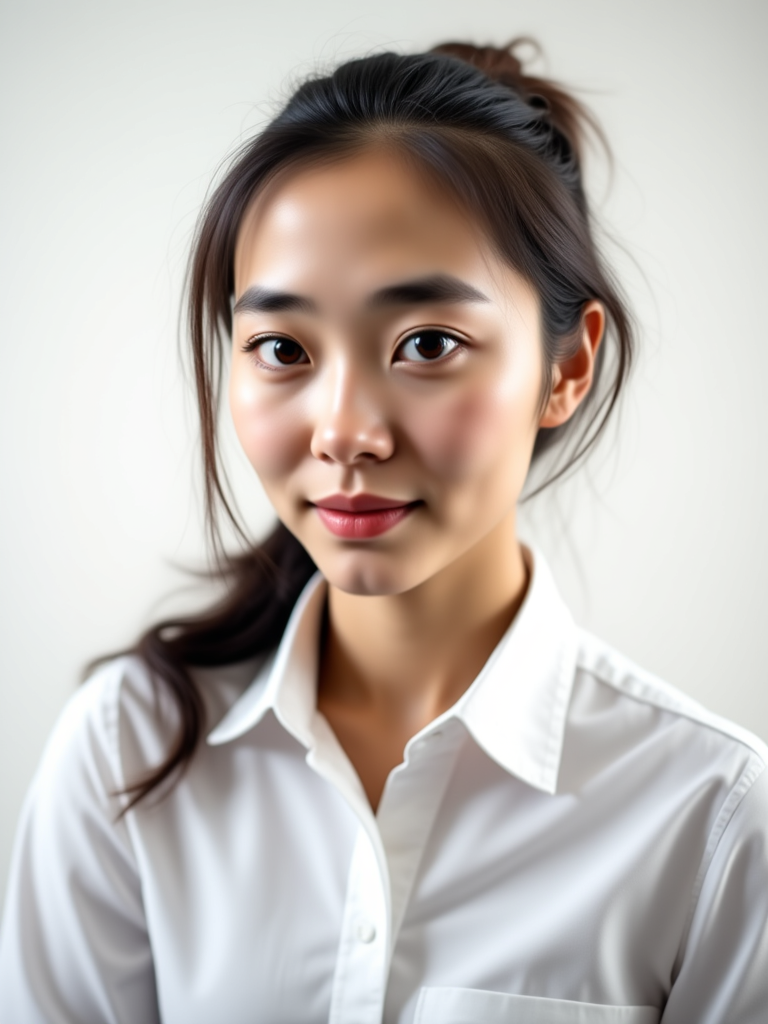
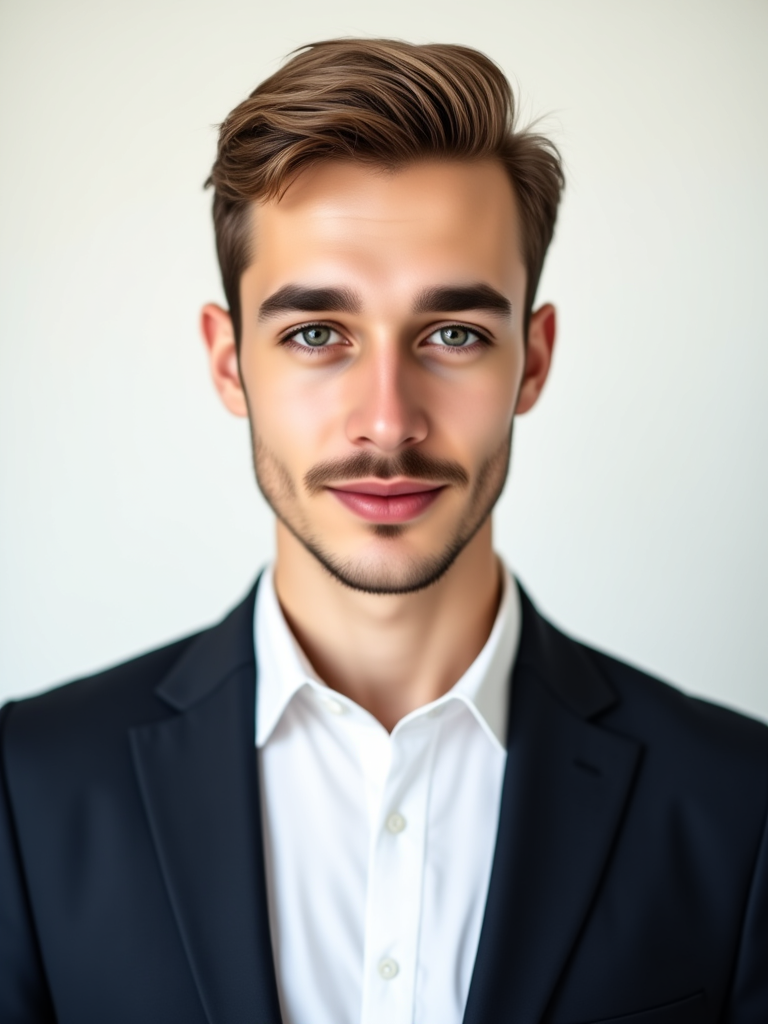
fix: update passport prompt and image for neat hair, suit jacket, and caucasian model

diff --git a/app/api/generate/route.ts b/app/api/generate/route.ts
@@ -22,8 +22,8 @@ const VARIANT_PROMPTS: Record<string, { v1: string; v2: string }> = {
     v2: "close-up aesthetic creator headshot, shoulders and head framing, neat light knit sweater, bright natural window daylight space, clear glowing skin, friendly radiant smile, 8k resolution",
   },
   passport_visa: {
-    v1: "official US passport photo standard, tight head-and-shoulders ID framing, face taking up 60% of total height, neutral calm expression, facing forward looking directly at camera, crisp white shirt, solid off-white studio background, perfectly even passport lighting, sharp 8k ID portrait",
-    v2: "official biometric visa ID photo, tight head-and-shoulders ID framing, face taking up 60% of total height, front facing neutral expression, white studio background, clear face lighting, crisp white collared shirt, high resolution studio photograph",
+    v1: "official US passport photo standard, tight head-and-shoulders ID framing, face taking up 60% of total height, neutral calm expression, facing forward looking directly at camera, dark suit jacket with crisp white shirt, perfectly groomed neat hair, professional salon hair styling, solid off-white studio background, perfectly even passport lighting, sharp 8k ID portrait",
+    v2: "official biometric visa ID photo, tight head-and-shoulders ID framing, face taking up 60% of total height, front facing neutral expression, perfectly groomed neat hair, professional salon hair styling, white studio background, clear face lighting, dark suit jacket with crisp white collared shirt, high resolution studio photograph",
   },
 };
 
@@ -52,7 +52,7 @@ export async function POST(req: NextRequest) {
           num_inference_steps: 28,
           guidance_scale: 4.2,
           id_weight: 0.95,
-          negative_prompt: "blurry, low quality, distorted face, plastic skin, wax figure, CG render, 3D model, anime, cartoon, heavy airbrushed, fake face, extra eyes, asymmetrical face, watermark, text, bad anatomy, over-processed, unflattering shadows, double chin, tired eyes, dark circles",
+          negative_prompt: "messy hair, unkempt hair, bedhead, blurry, low quality, distorted face, plastic skin, wax figure, CG render, 3D model, anime, cartoon, heavy airbrushed, fake face, extra eyes, asymmetrical face, watermark, text, bad anatomy, over-processed, unflattering shadows, double chin, tired eyes, dark circles",
         },
       }),
       fal.subscribe("fal-ai/flux-pulid", {
@@ -63,7 +63,7 @@ export async function POST(req: NextRequest) {
           num_inference_steps: 28,
           guidance_scale: 4.2,
           id_weight: 0.95,
-          negative_prompt: "blurry, low quality, distorted face, plastic skin, wax figure, CG render, 3D model, anime, cartoon, heavy airbrushed, fake face, extra eyes, asymmetrical face, watermark, text, bad anatomy, over-processed, unflattering shadows, double chin, tired eyes, dark circles",
+          negative_prompt: "messy hair, unkempt hair, bedhead, blurry, low quality, distorted face, plastic skin, wax figure, CG render, 3D model, anime, cartoon, heavy airbrushed, fake face, extra eyes, asymmetrical face, watermark, text, bad anatomy, over-processed, unflattering shadows, double chin, tired eyes, dark circles",
         },
       }),
     ]);

diff --git a/app/page.tsx b/app/page.tsx
@@ -561,8 +561,8 @@ export default function Home() {
                 }`}
               >
                 <div className="relative aspect-[3/4] rounded-2xl overflow-hidden shadow-md border border-neutral-200/70 bg-neutral-100 transition-all duration-300 group-hover:shadow-xl group-hover:scale-[1.015]">
-                  <img src="/api/demo-image/passport_after?v=passport-white-v1" alt="Passport & Visa ID" className="w-full h-full object-cover transition-opacity duration-500 group-hover:opacity-0" />
-                  <img src="/api/demo-image/passport_before?v=passport-white-v1" alt="Original Selfie" className="w-full h-full object-cover absolute inset-0 opacity-0 group-hover:opacity-100 transition-opacity duration-500" />
+                  <img src="/api/demo-image/passport_after?v=passport-suit-v2" alt="Passport & Visa ID" className="w-full h-full object-cover transition-opacity duration-500 group-hover:opacity-0" />
+                  <img src="/api/demo-image/passport_before?v=passport-suit-v2" alt="Original Selfie" className="w-full h-full object-cover absolute inset-0 opacity-0 group-hover:opacity-100 transition-opacity duration-500" />
                 </div>
                 <div className="mt-3.5 space-y-1.5">
                   <div className="flex items-center justify-between">
